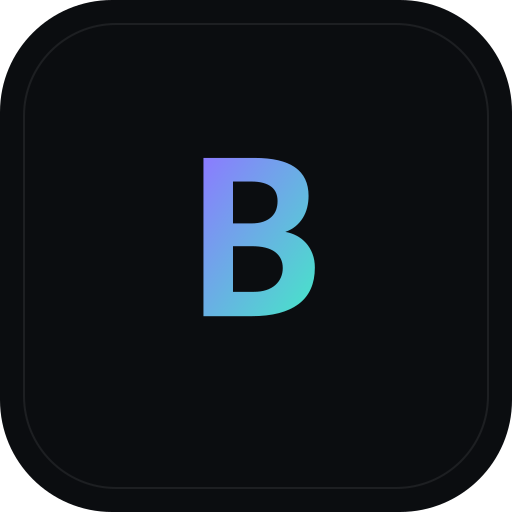
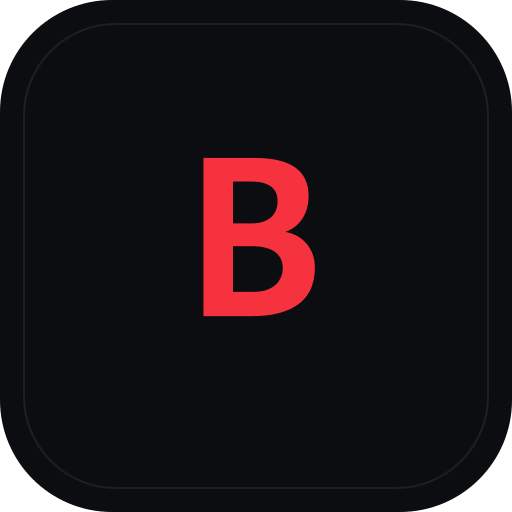
Adopt the brand palette and set Inter everywhere
Swaps the placeholder violet/mint scheme for the brand palette: red #F7323F
accent, ink #0B0D10 ground, surface #15181D, paper #F7F8FA text, mist #A7ADB7
muted. The five colours are now named tokens in :root and every role token
derives from them, so there are no loose hex values left in the rules.

Two-tone gradients had no second colour to draw on, so the logo mark and the
hero emphasis are flat red, and the ambient background is a single hue. The
favicon and OG image SVGs are recoloured and regenerated to match.

Drops JetBrains Mono; Inter now covers body, headings, dates, tags, kickers,
and code. That takes the build from four font files to two.

Changed region(s): [[0.375, 0.2812, 0.625, 0.625]]

diff --git a/src/styles/global.css b/src/styles/global.css
@@ -1,26 +1,33 @@
 /* ==========================================================================
    BrendanPcs — Design System (dark only)
-   Canvas #0B0D10 · Surface #14171C · Accent #8B7BFF · Accent-2 #46E6C8
-   Type: Inter (UI/body) + JetBrains Mono (code, labels, dates)
-   The --font-sans / --font-mono variables come from Astro's Fonts API
+   Palette: #F7323F (red) · #0B0D10 (ink) · #15181D (surface) · #F7F8FA (paper) · #A7ADB7 (mist)
+   Type: Inter everywhere. --font-sans comes from Astro's Fonts API
    (configured in astro.config.mjs, injected by <Font> in BaseLayout).
    ========================================================================== */
 
 :root {
-  --canvas: #0b0d10;
-  --surface: #14171c;
+  /* Brand palette */
+  --red: #f7323f; /* accent — CTAs, links, highlights */
+  --ink: #0b0d10; /* deepest dark — page background */
+  --surface: #15181d; /* secondary dark — raised sections */
+  --paper: #f7f8fa; /* light — primary text on dark */
+  --mist: #a7adb7; /* muted gray — secondary text, borders */
+
+  /* Roles, derived from the palette above. This site is dark-only, so `paper`
+     is the text colour and `ink` is the ground. */
+  --canvas: var(--ink);
   --surface-2: #191d23;
 
-  --accent: #8b7bff;
-  --accent-soft: rgba(139, 123, 255, 0.14);
-  --accent-2: #46e6c8;
+  --accent: var(--red);
+  --accent-soft: rgba(247, 50, 63, 0.14);
+  --accent-hover: #ff4b57;
 
-  --text-strong: #f2f4f8;
-  --text-body: rgba(242, 244, 248, 0.68);
-  --text-mute: rgba(242, 244, 248, 0.44);
+  --text-strong: var(--paper);
+  --text-body: rgba(247, 248, 250, 0.68);
+  --text-mute: var(--mist);
 
-  --border: rgba(242, 244, 248, 0.1);
-  --border-soft: rgba(242, 244, 248, 0.06);
+  --border: rgba(247, 248, 250, 0.1);
+  --border-soft: rgba(247, 248, 250, 0.06);
 
   --max-width: 1160px;
   --measure: 68ch;
@@ -116,7 +123,7 @@ summary:focus-visible {
   top: 0;
   z-index: 2000;
   background: var(--accent);
-  color: #0b0d10;
+  color: var(--ink);
   font-weight: 600;
   padding: 12px 20px;
   border-radius: 0 0 var(--radius-sm) 0;
@@ -144,8 +151,8 @@ body::before {
   z-index: -1;
   pointer-events: none;
   background:
-    radial-gradient(900px 480px at 15% -10%, rgba(139, 123, 255, 0.16), transparent 70%),
-    radial-gradient(700px 420px at 90% 0%, rgba(70, 230, 200, 0.08), transparent 70%);
+    radial-gradient(900px 480px at 15% -10%, rgba(247, 50, 63, 0.16), transparent 70%),
+    radial-gradient(700px 420px at 90% 0%, rgba(247, 50, 63, 0.07), transparent 70%);
 }
 
 /* ============ Layout primitives ============ */
@@ -170,7 +177,7 @@ body::before {
 }
 
 .kicker {
-  font-family: var(--font-mono);
+  font-family: var(--font-sans);
   font-size: 0.75rem;
   letter-spacing: 0.14em;
   text-transform: uppercase;
@@ -189,7 +196,7 @@ body::before {
   font-size: clamp(1.5rem, 3vw, 2rem);
 }
 .link-more {
-  font-family: var(--font-mono);
+  font-family: var(--font-sans);
   font-size: 0.85rem;
   color: var(--text-mute);
   transition: color var(--t-fast) var(--ease-out);
@@ -220,15 +227,15 @@ body::before {
 }
 .btn-primary {
   background: var(--accent);
-  color: #0b0d10;
+  color: var(--ink);
 }
 .btn-primary:hover {
-  background: #9d90ff;
+  background: var(--accent-hover);
 }
 .btn-ghost {
   border-color: var(--border);
   color: var(--text-strong);
-  background: rgba(242, 244, 248, 0.02);
+  background: rgba(247, 248, 250, 0.02);
 }
 .btn-ghost:hover {
   border-color: var(--accent);
@@ -280,9 +287,9 @@ body::before {
   border-radius: 7px;
   display: grid;
   place-items: center;
-  background: linear-gradient(140deg, var(--accent), var(--accent-2));
-  color: #0b0d10;
-  font-family: var(--font-mono);
+  background: var(--accent);
+  color: var(--ink);
+  font-family: var(--font-sans);
   font-size: 0.72rem;
   font-weight: 700;
   flex: none;
@@ -406,10 +413,7 @@ body.nav-locked {
 }
 .hero h1 em {
   font-style: normal;
-  background: linear-gradient(100deg, var(--accent), var(--accent-2));
-  -webkit-background-clip: text;
-  background-clip: text;
-  color: transparent;
+  color: var(--accent);
 }
 .hero p {
   font-size: clamp(1rem, 2vw, 1.15rem);
@@ -434,13 +438,13 @@ body.nav-locked {
   padding: 22px clamp(18px, 3vw, 28px);
   border: 1px solid var(--border-soft);
   border-radius: var(--radius);
-  background: linear-gradient(180deg, rgba(242, 244, 248, 0.028), rgba(242, 244, 248, 0.01));
+  background: linear-gradient(180deg, rgba(247, 248, 250, 0.028), rgba(247, 248, 250, 0.01));
   transition:
     border-color var(--t-fast) var(--ease-out),
     transform var(--t-fast) var(--ease-out);
 }
 .post-card:hover {
-  border-color: rgba(139, 123, 255, 0.42);
+  border-color: rgba(247, 50, 63, 0.42);
   transform: translateY(-2px);
 }
 .post-card:has(a:focus-visible) {
@@ -464,8 +468,8 @@ body.nav-locked {
   max-width: 62ch;
 }
 .post-card.is-featured {
-  border-color: rgba(139, 123, 255, 0.3);
-  background: linear-gradient(180deg, rgba(139, 123, 255, 0.07), rgba(242, 244, 248, 0.012));
+  border-color: rgba(247, 50, 63, 0.3);
+  background: linear-gradient(180deg, rgba(247, 50, 63, 0.07), rgba(247, 248, 250, 0.012));
 }
 
 .post-meta {
@@ -473,7 +477,7 @@ body.nav-locked {
   align-items: center;
   flex-wrap: wrap;
   gap: 10px;
-  font-family: var(--font-mono);
+  font-family: var(--font-sans);
   font-size: 0.76rem;
   letter-spacing: 0.04em;
   color: var(--text-mute);
@@ -493,14 +497,14 @@ body.nav-locked {
 }
 .tag {
   display: inline-block;
-  font-family: var(--font-mono);
+  font-family: var(--font-sans);
   font-size: 0.73rem;
   letter-spacing: 0.03em;
   padding: 4px 10px;
   border-radius: 999px;
   border: 1px solid var(--border);
   color: var(--text-mute);
-  background: rgba(242, 244, 248, 0.02);
+  background: rgba(247, 248, 250, 0.02);
   position: relative;
   z-index: 1;
   transition:
@@ -510,7 +514,7 @@ body.nav-locked {
 }
 a.tag:hover {
   color: var(--accent);
-  border-color: rgba(139, 123, 255, 0.45);
+  border-color: rgba(247, 50, 63, 0.45);
   background: var(--accent-soft);
 }
 .tag .count {
@@ -561,11 +565,11 @@ a.tag:hover {
   border-radius: var(--radius);
   padding: 18px 22px;
   margin-bottom: 40px;
-  background: rgba(242, 244, 248, 0.02);
+  background: rgba(247, 248, 250, 0.02);
   max-width: var(--measure);
 }
 .toc-title {
-  font-family: var(--font-mono);
+  font-family: var(--font-sans);
   font-size: 0.72rem;
   letter-spacing: 0.14em;
   text-transform: uppercase;
@@ -584,7 +588,7 @@ a.tag:hover {
 }
 .toc li::before {
   content: counter(toc, decimal-leading-zero);
-  font-family: var(--font-mono);
+  font-family: var(--font-sans);
   font-size: 0.75rem;
   color: var(--accent);
   margin-right: 10px;
@@ -616,7 +620,7 @@ a.tag:hover {
   text-decoration: underline;
   text-underline-offset: 3px;
   text-decoration-thickness: 1px;
-  text-decoration-color: rgba(139, 123, 255, 0.45);
+  text-decoration-color: rgba(247, 50, 63, 0.45);
   transition: text-decoration-color var(--t-fast) var(--ease-out);
 }
 .prose a:hover {
@@ -661,11 +665,11 @@ a.tag:hover {
   color: var(--text-mute);
 }
 .prose code {
-  font-family: var(--font-mono);
+  font-family: var(--font-sans);
   font-size: 0.86em;
   padding: 2px 6px;
   border-radius: 5px;
-  background: rgba(242, 244, 248, 0.07);
+  background: rgba(247, 248, 250, 0.07);
   color: var(--text-strong);
 }
 .prose pre {
@@ -698,7 +702,7 @@ a.tag:hover {
 }
 .prose th {
   color: var(--text-strong);
-  font-family: var(--font-mono);
+  font-family: var(--font-sans);
   font-size: 0.78rem;
   letter-spacing: 0.06em;
   text-transform: uppercase;
@@ -726,10 +730,10 @@ a.tag:hover {
   transition: border-color var(--t-fast) var(--ease-out);
 }
 .post-nav a:hover {
-  border-color: rgba(139, 123, 255, 0.42);
+  border-color: rgba(247, 50, 63, 0.42);
 }
 .post-nav .label {
-  font-family: var(--font-mono);
+  font-family: var(--font-sans);
   font-size: 0.72rem;
   letter-spacing: 0.1em;
   text-transform: uppercase;
@@ -759,7 +763,7 @@ a.tag:hover {
   border: 1px solid var(--border);
   font-size: 0.88rem;
   color: var(--text-body);
-  background: rgba(242, 244, 248, 0.02);
+  background: rgba(247, 248, 250, 0.02);
   transition:
     color var(--t-fast) var(--ease-out),
     border-color var(--t-fast) var(--ease-out),
@@ -767,7 +771,7 @@ a.tag:hover {
 }
 .social-link:hover {
   color: var(--text-strong);
-  border-color: rgba(139, 123, 255, 0.45);
+  border-color: rgba(247, 50, 63, 0.45);
   transform: translateY(-1px);
 }
 .social-link svg {
@@ -777,7 +781,7 @@ a.tag:hover {
 }
 /* The per-account handle, shown on the About page list. */
 .social-handle {
-  font-family: var(--font-mono);
+  font-family: var(--font-sans);
   font-size: 0.76rem;
   color: var(--text-mute);
 }
@@ -810,7 +814,7 @@ a.tag:hover {
   flex-wrap: wrap;
   gap: 12px;
   justify-content: space-between;
-  font-family: var(--font-mono);
+  font-family: var(--font-sans);
   font-size: 0.76rem;
   color: var(--text-mute);
 }
@@ -832,7 +836,7 @@ a.tag:hover {
   padding-block: var(--section-pad);
 }
 .notfound .code {
-  font-family: var(--font-mono);
+  font-family: var(--font-sans);
   font-size: clamp(3rem, 12vw, 6rem);
   color: var(--accent);
   line-height: 1;
